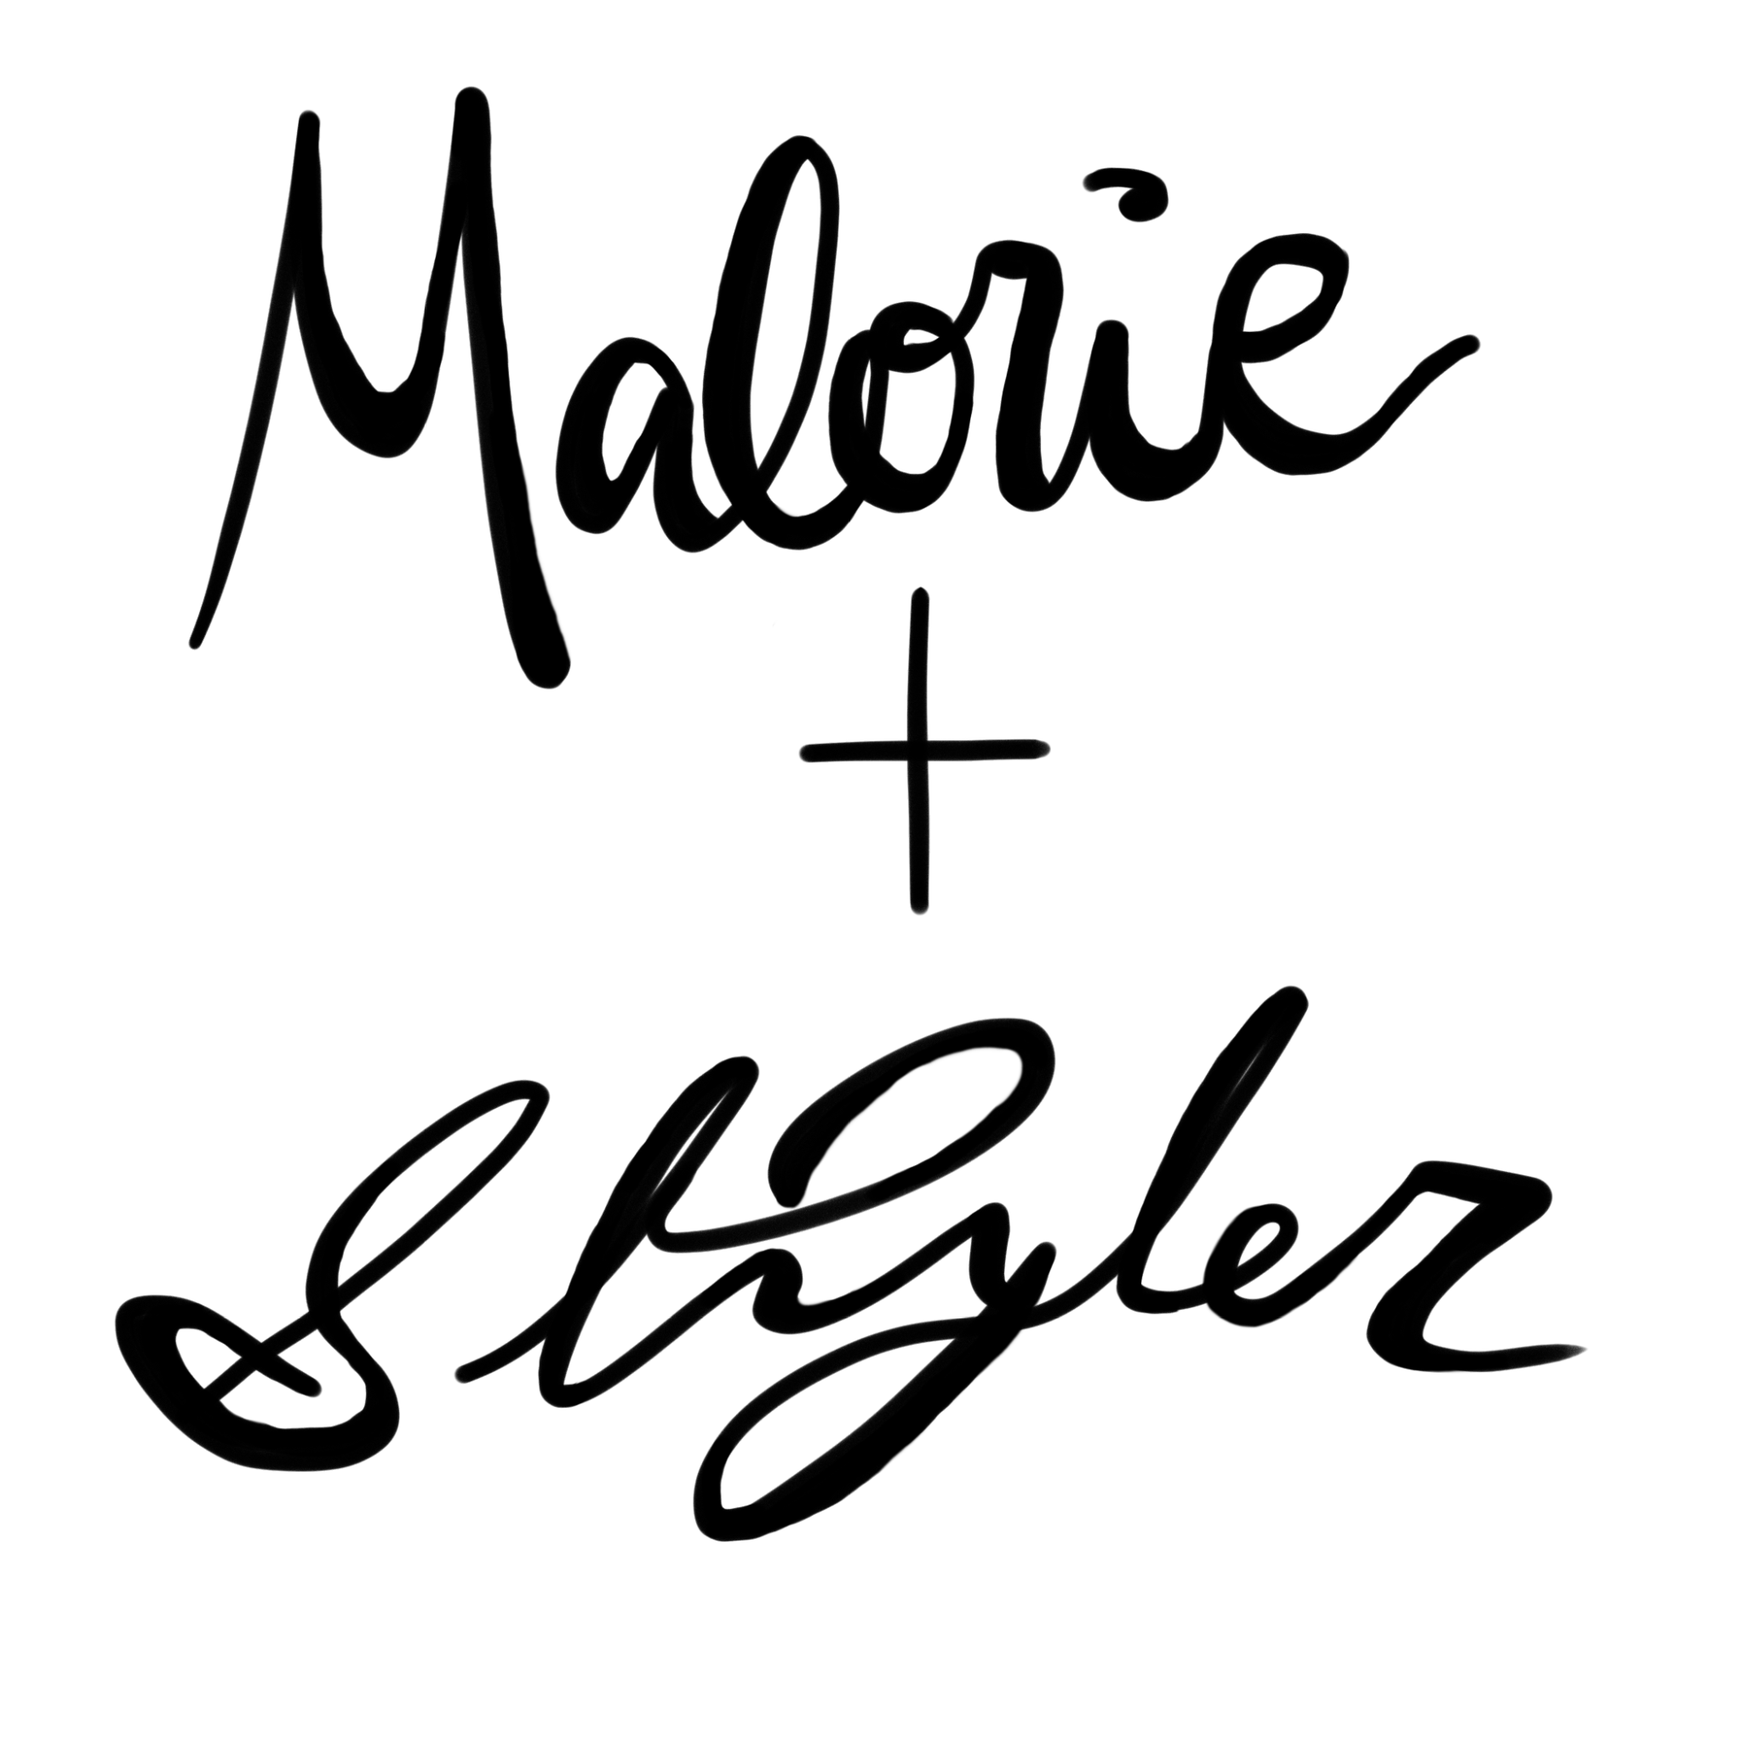
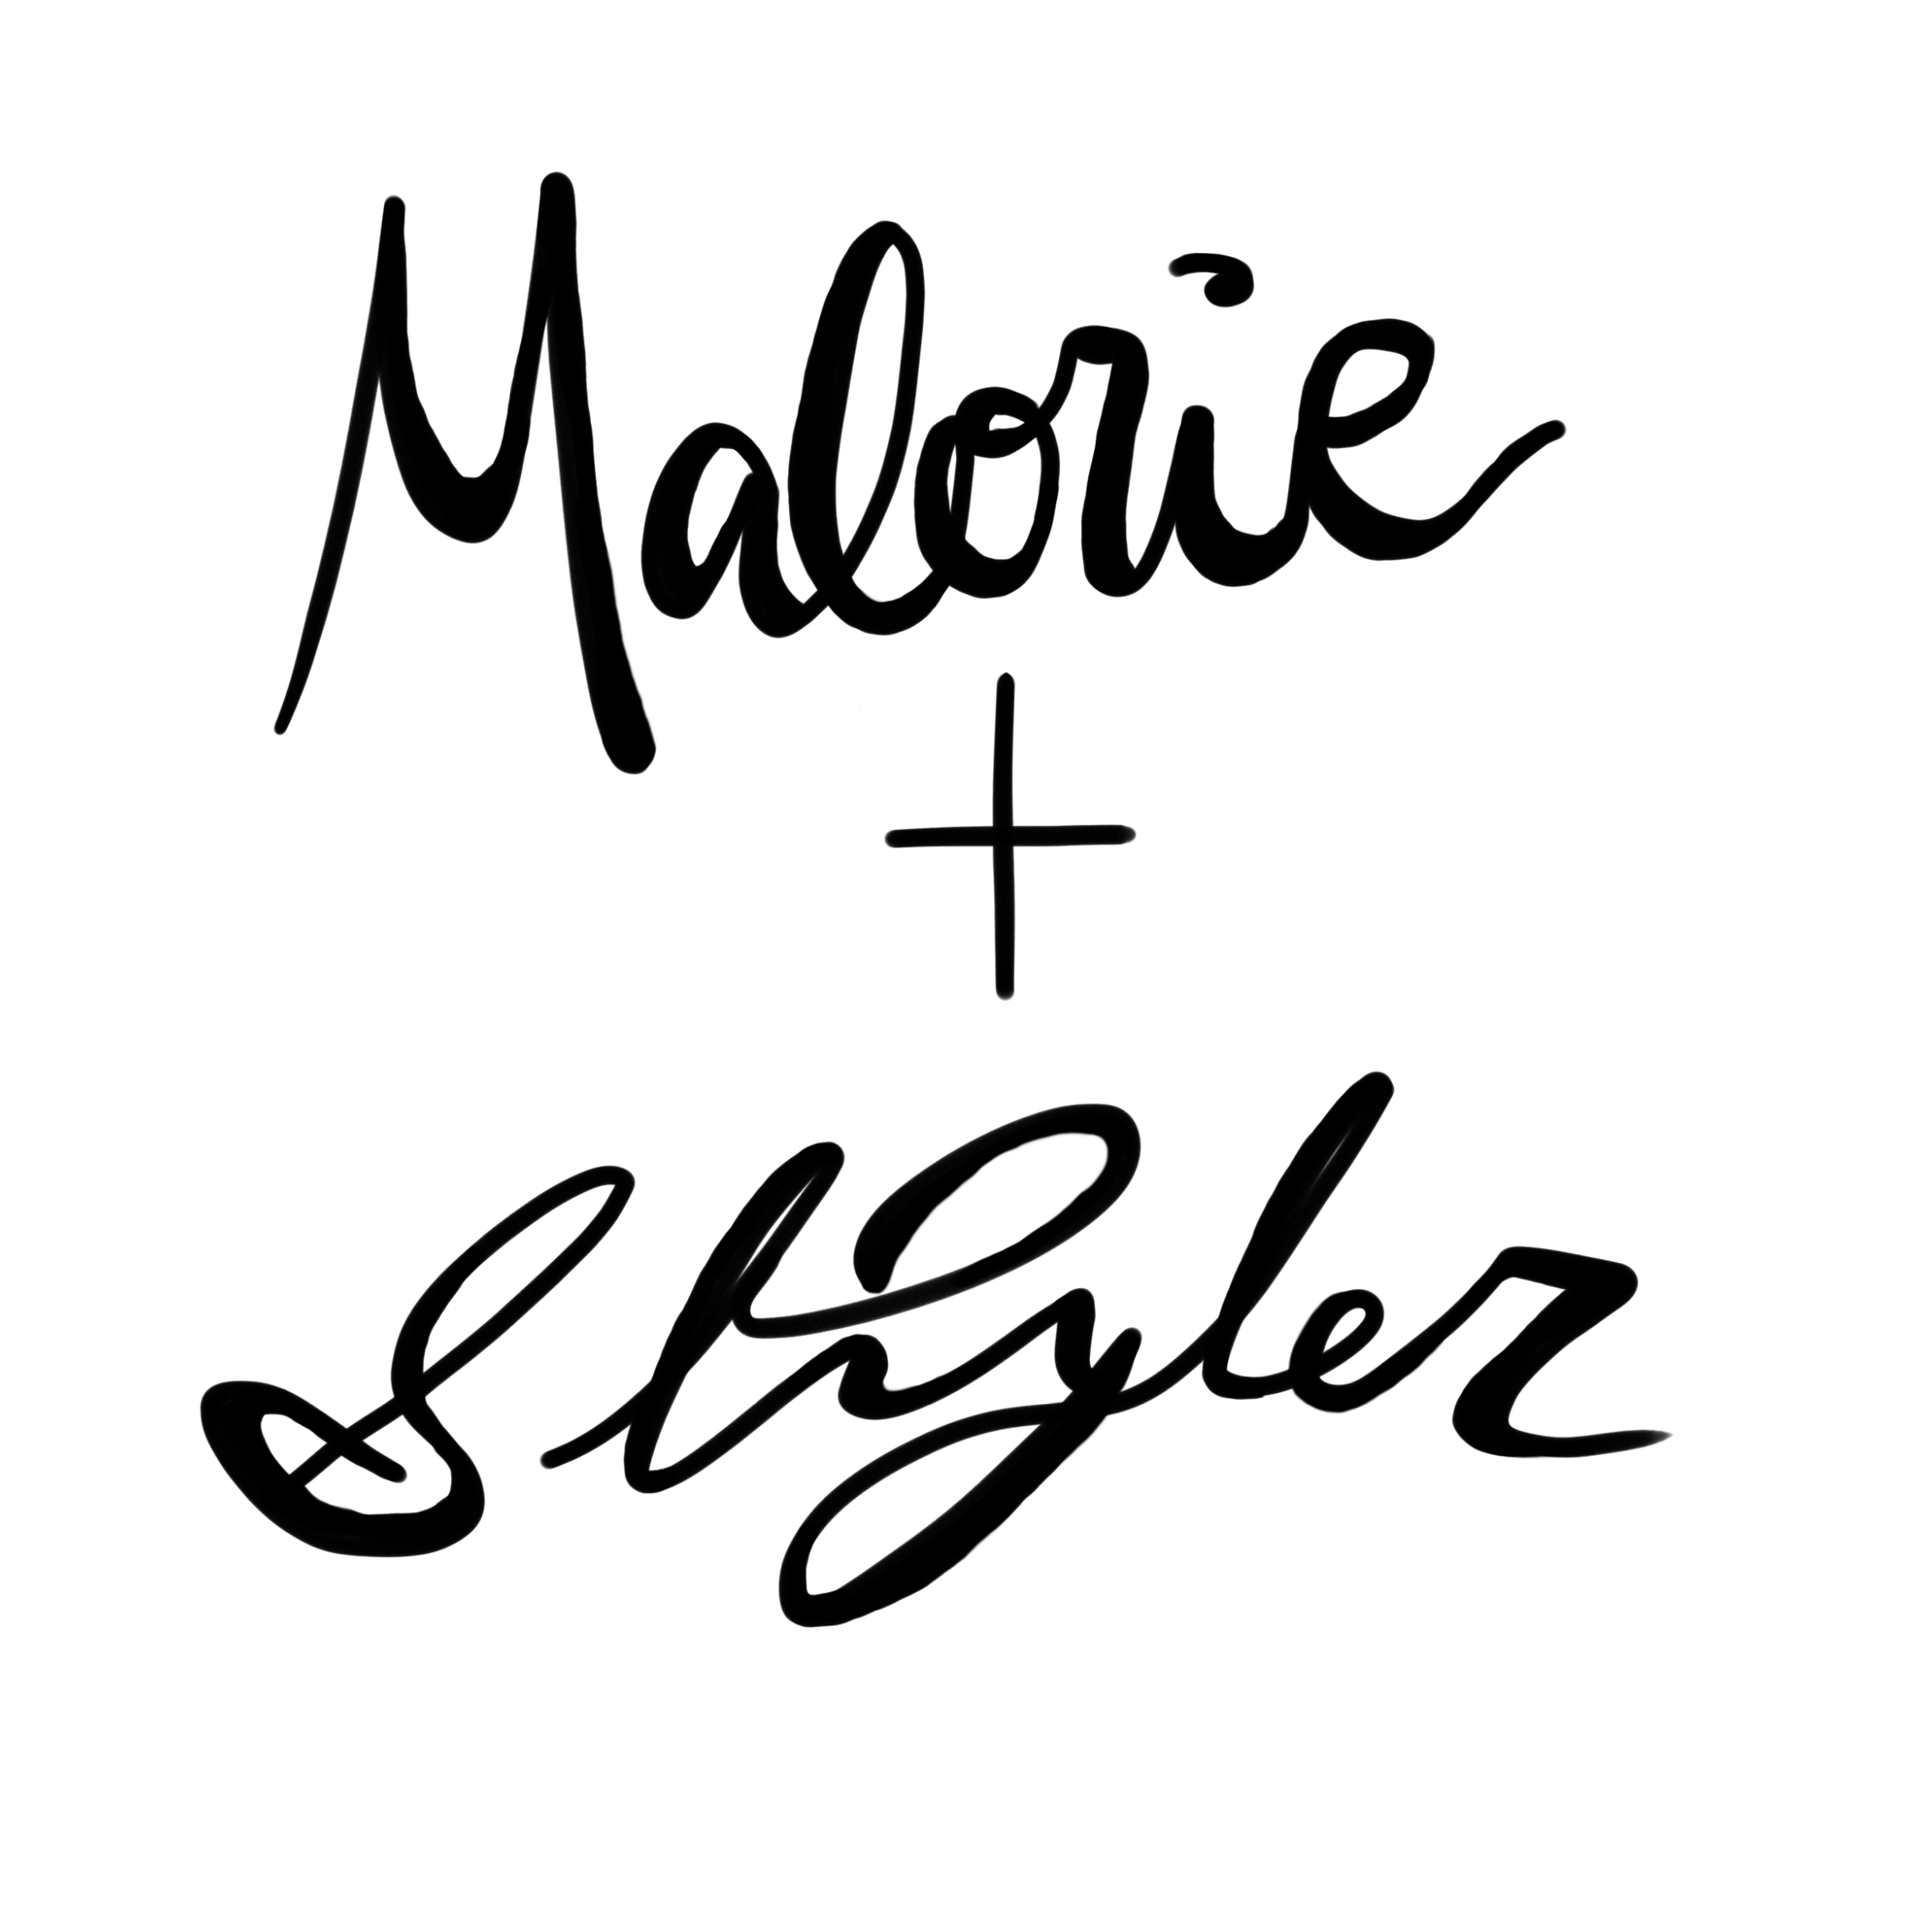
Finalized Header Band

diff --git a/src/pages/App.tsx b/src/pages/App.tsx
@@ -1,6 +1,10 @@
 import React from 'react';
 import '../styles/App.css';
 
+// Image imports
+import Signatures from '../images/signature.png'
+import Sunflower from '../images/sunflower.png'
+
 // Page element imports
 import Header from './Header'
 import RSVP from './RSVP'
@@ -13,6 +17,12 @@ function App() {
   return (
     <div className="App">
       <Header></Header>
+      <div style={{backgroundColor:'#5F8575', height:'2.5vw', backgroundImage:'url('+Sunflower+')', 
+      backgroundSize:'auto 2vw', backgroundRepeat:'repeat-x', backgroundPosition:'center'}}>
+        <img src={Signatures} alt="signatures" 
+        style={{width:'10%', backgroundColor:'white', boxShadow:'0 0 5px 0 black',
+        borderRadius:'50%', border:'5px solid goldenrod', position:'relative', bottom:'4vw'}}/>
+      </div>
       <RSVP></RSVP>
       <Schedule></Schedule>
       <Venue></Venue>

diff --git a/src/styles/App.css b/src/styles/App.css
@@ -24,8 +24,8 @@
 
   height: 855px;
 
-  text-shadow: -1px -1px rgb(255, 250, 240), 1px 1px rgb(255, 215, 135),
-  1px -1px rgb(255, 250, 240), -1px 1px rgb(255, 170, 0);
+  text-shadow: -1px -1px white, 1px 1px white,
+  1px -1px white, -1px 1px white;
 }
 
 .bw-background {
@@ -53,7 +53,7 @@
   font-size: 48pt;
 }
 
-@media only screen and (max-width: 1079px) {
+@media only screen and (max-width: 1329px) {
   .head-background {
     background-size: auto 855px;
   }
